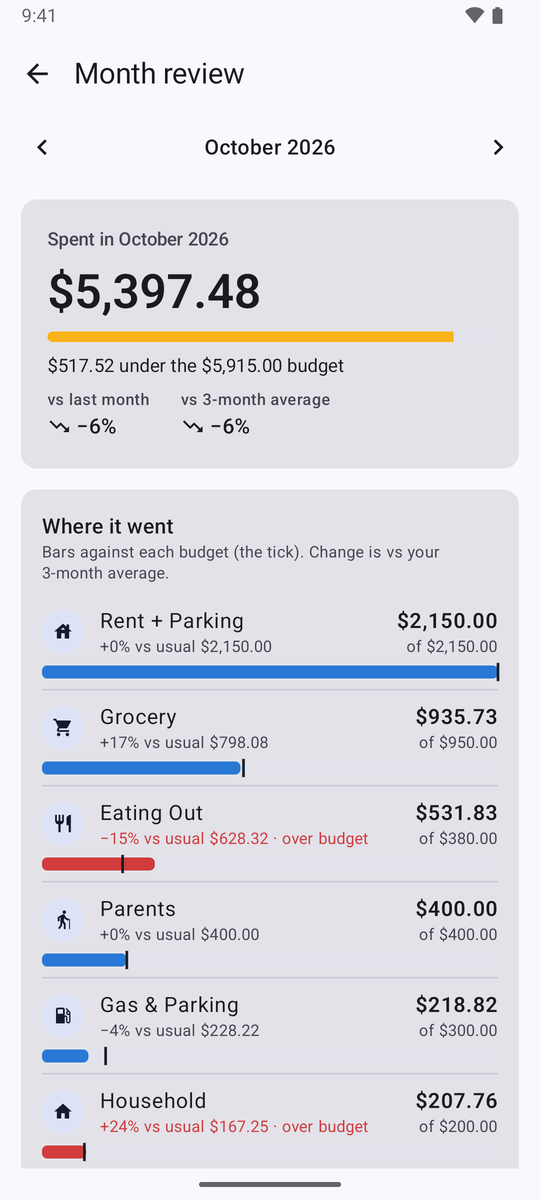
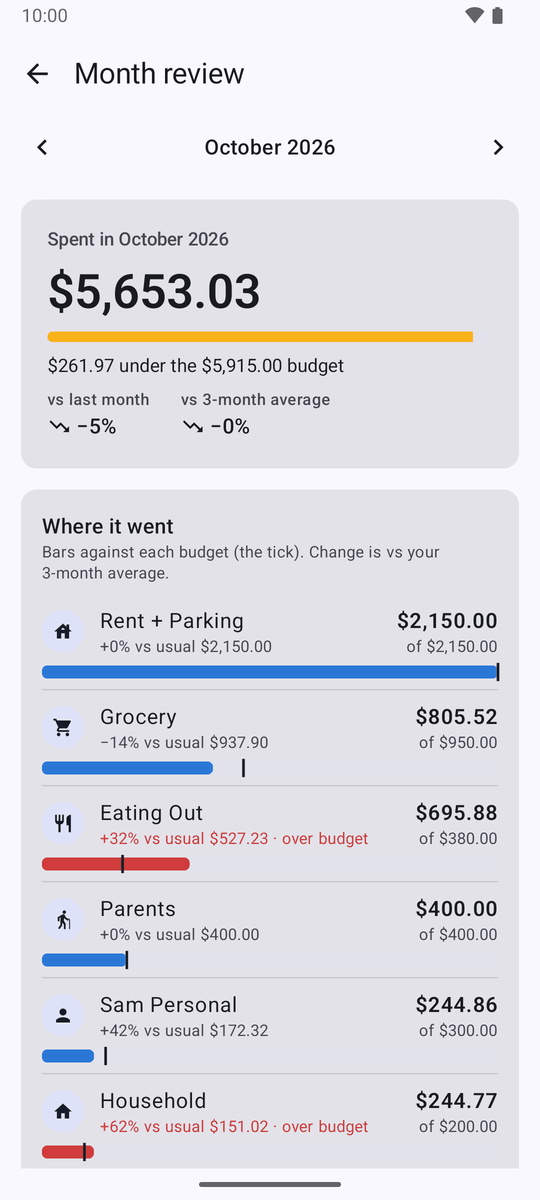
New README screenshots, and demo data that reads like a normal month
- Ten screenshots from the demo data: the Android Budget tab, Ask, Activity, savings target and goals,
  balances and net worth, month review, a receipt and bills, plus the web app's setup wizard and its
  home on a laptop.
- Demo: one earner is paid monthly on the 1st and savings move on the 3rd, so a mid-month view shows
  income, savings and a positive savings rate; the month so far gets recent balances, so net worth moves.
- README: the four Android tabs, and what the demo data includes.

diff --git a/backend/app/scripts/seed_demo.py b/backend/app/scripts/seed_demo.py
@@ -101,12 +101,14 @@ BUDGETS = {
 PERSON_BUDGET = "300"
 FAMILY_BUDGETS = {"transfer": "400", "line": "150"}
 
-# Each person's pay: who ("person:0"...), payer as the deposit names it, net amount, cadence.
+# Each person's pay: who ("person:0"...), payer as the deposit names it, net amount, cadence, and the first pay
+# day (days after the start; a monthly pay keeps that day of the month).
 PAY = (
-    ("person:0", "HARBORLINE CO PAYROLL", "2840.15", "semimonthly"),
-    ("person:1", "MAPLEWORKS INC PAY", "2315.60", "biweekly"),
+    ("person:0", "HARBORLINE CO PAYROLL", "5680.30", "monthly", 0),
+    ("person:1", "MAPLEWORKS INC PAY", "2315.60", "biweekly", 13),
 )
-# Moved from chequing every month, a few days after pay, by kind of account.
+# Moved from chequing every month, a few days after the first pay of the month, by kind of account.
+SAVING_DAY = 3
 MONTHLY_SAVING = {"savings": "600", "investment": "500", "retirement": "300"}
 # Balances six months back, by kind; credit cards owe what their statement says, so they're drawn per month.
 OPENING_BALANCE = {"chequing": "3200", "savings": "8400", "investment": "21500", "retirement": "34000",
@@ -282,13 +284,13 @@ class Seeder:
     def income(self) -> None:
         """Each person's regular pay, and every paycheque since the start."""
         seen = set()
-        for who, payer, amount, cadence in PAY:
+        for who, payer, amount, cadence, first in PAY:
             earner = self.who[who]
             if earner in seen or earner == DEFAULT_PURPOSE:
                 continue
             seen.add(earner)
             source = IncomeSource(name=f"{earner}'s pay", earner=earner, account_id=self.chequing, payer_pattern=payer.split()[0],
-                                  amount=Decimal(amount), cadence=cadence, anchor_date=self.start + timedelta(days=13))
+                                  amount=Decimal(amount), cadence=cadence, anchor_date=self.start + timedelta(days=first))
             self.db.add(source)
             self.db.flush()
             for day in pay_dates(source, self.start, self.today + timedelta(days=1)):
@@ -312,7 +314,7 @@ class Seeder:
             month_end = (month + timedelta(days=32)).replace(day=1) - timedelta(days=1)
             for account in self.household_accounts:
                 moved = MONTHLY_SAVING.get(account.kind)
-                day = month.replace(day=18)
+                day = month.replace(day=SAVING_DAY)
                 if moved and day <= self.today:
                     amount = Decimal(moved)
                     self.count += 1
@@ -334,12 +336,17 @@ class Seeder:
                 elif account.kind == "chequing":
                     balances[account.id] += _money(self.rng, -250, 300)
                 if month_end > last_month_end:
-                    continue  # the month isn't over: its balance comes from the bank app at month-end
+                    # The month isn't over: a balance from the bank app a few days ago, so net worth has moved.
+                    as_of = self.today - timedelta(days=2)
+                    if as_of < month:
+                        continue
+                else:
+                    as_of = month_end
                 balance = (_money(self.rng, 400, 1900) if account.kind == "credit_card"
                            else balances[account.id].quantize(Decimal("0.01")))
                 if account.kind == "asset" and not balance:
                     continue
-                self.db.add(BalanceSnapshot(account_id=account.id, as_of=month_end, balance=balance, source="manual"))
+                self.db.add(BalanceSnapshot(account_id=account.id, as_of=as_of, balance=balance, source="manual"))
 
     def plan(self) -> None:
         """A monthly savings target, and a goal counted from the savings accounts."""

diff --git a/README.md b/README.md
@@ -31,13 +31,18 @@ and *who* it was for. Budgets, bills and alerts flow out. Your money data never 
 
 <div align="center">
 
-| Budget at a glance | Month-end review | Every charge, sorted |
+| Budget at a glance | Ask about your money | Every charge, sorted |
 |:---:|:---:|:---:|
-| <img src="docs/screenshots/budget.png" alt="Budget screen: October spending against budget, a six-month trend and per-line budgets" width="240" /> | <img src="docs/screenshots/month-review.png" alt="Month review: each budget line against its budget and the usual month" width="240" /> | <img src="docs/screenshots/activity.png" alt="Activity: charges by day with category, and uncategorized ones to check" width="240" /> |
-| **One receipt, many budgets** | **Bills you can see coming** | **Web app for iPhone and laptops** |
-| <img src="docs/screenshots/receipt.png" alt="A Costco receipt read line by line, each line with its own category and person" width="240" /> | <img src="docs/screenshots/bills.png" alt="Bills: paid and upcoming bills for the month" width="240" /> | <img src="docs/screenshots/web-app.png" alt="The web app's home screen" width="240" /> |
+| <img src="docs/screenshots/budget.png" alt="Budget tab: spent against the month's budget, insight cards, income, saved and net worth, and each budget line" width="240" /> | <img src="docs/screenshots/ask.png" alt="Ask: the assistant answers whether a $3,000 trip in March is affordable, from the household's spending, income and savings" width="240" /> | <img src="docs/screenshots/activity.png" alt="Activity: charges by day with their category, filters, and uncategorized ones to check" width="240" /> |
+| **Savings target and goals** | **Balances and net worth** | **Month-end review** |
+| <img src="docs/screenshots/savings.png" alt="Savings: this month's savings against the target, and an emergency fund goal with the monthly amount that reaches it" width="240" /> | <img src="docs/screenshots/balances.png" alt="Balances: net worth, contributions and market return, and each account's balance by kind" width="240" /> | <img src="docs/screenshots/month-review.png" alt="Month review: each budget line against its budget and the usual month" width="240" /> |
+| **One receipt, many budgets** | **Bills you can see coming** | **Set up in the browser** |
+| <img src="docs/screenshots/receipt.png" alt="A Costco receipt read line by line, each line with its own category and person" width="240" /> | <img src="docs/screenshots/bills.png" alt="Bills: paid and upcoming bills for the month" width="240" /> | <img src="docs/screenshots/web-setup.png" alt="The web app's setup wizard: accounts with their type, owner and card digits" width="240" /> |
 
-<sub>Demo data for a fictional household: try it yourself with <code>python -m app.scripts.seed_demo</code>.</sub>
+<img src="docs/screenshots/web-app.png" alt="The web app on a laptop: insight cards, the month's spending, income and savings" width="720" />
+
+<sub>The Android app (light) and the web app (dark), showing the demo data for a fictional household. See
+<a href="#-quick-start">Quick start</a> to try it yourself.</sub>
 
 </div>
 
@@ -226,7 +231,8 @@ More → Household.
 - **iPhone:** add the web app to your home screen (Share → Add to Home Screen).
 
 **Just want to look around?** Skip the wizard: use the example household, then fill it with six months of
-made-up spending (it refuses to run once you have real transactions):
+made-up spending, pay, savings, balances and a savings goal, the data in the screenshots above (it refuses to
+run once you have real transactions):
 
 ```bash
 cp household.example.toml household.toml && docker compose restart api
@@ -272,7 +278,8 @@ cd android && ./gradlew assembleDebug
 # app/build/outputs/apk/debug/app-debug.apk
 ```
 
-On first launch, enter your server address and your API token.
+On first launch, enter your server address and your API token. The bar has four tabs: **Budget**,
+**Activity**, **Ask** and **More** (Receipts, Bills and Settings).
 
 - **Purchase capture** needs "notification access" for Xpensimate (Settings in the app links to it).
   Purchases seen while the server is unreachable are queued and sent later.
